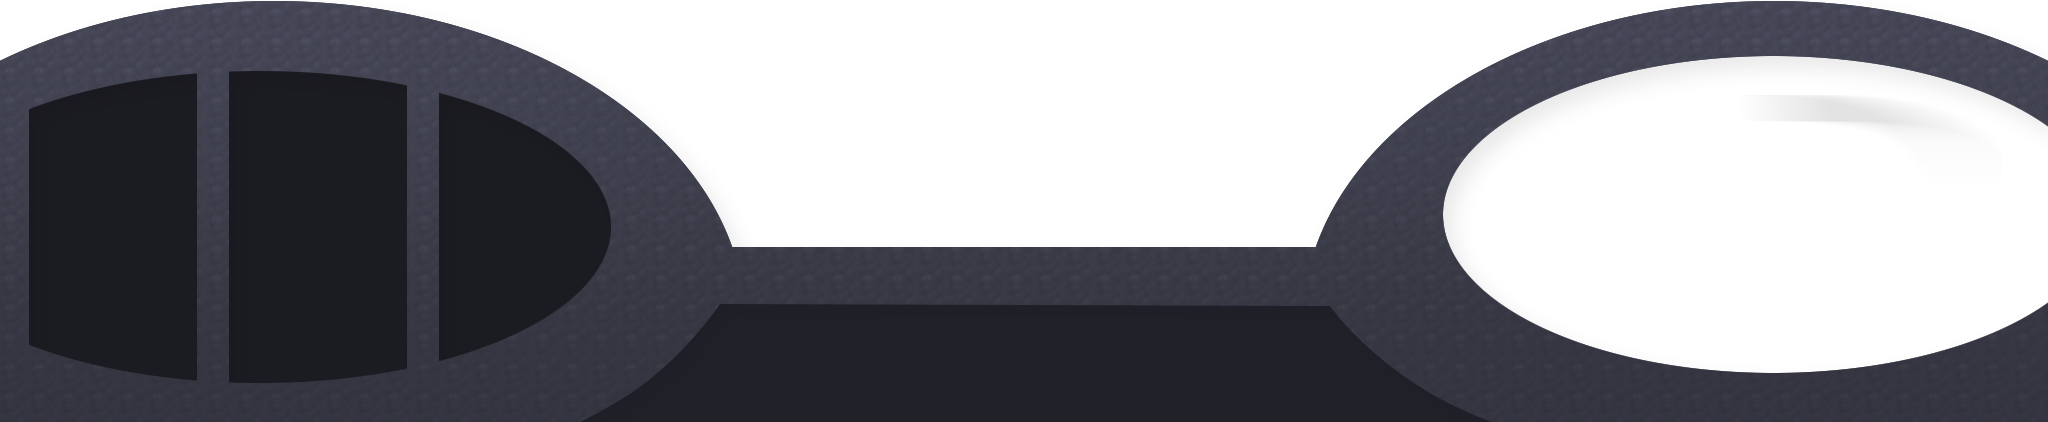
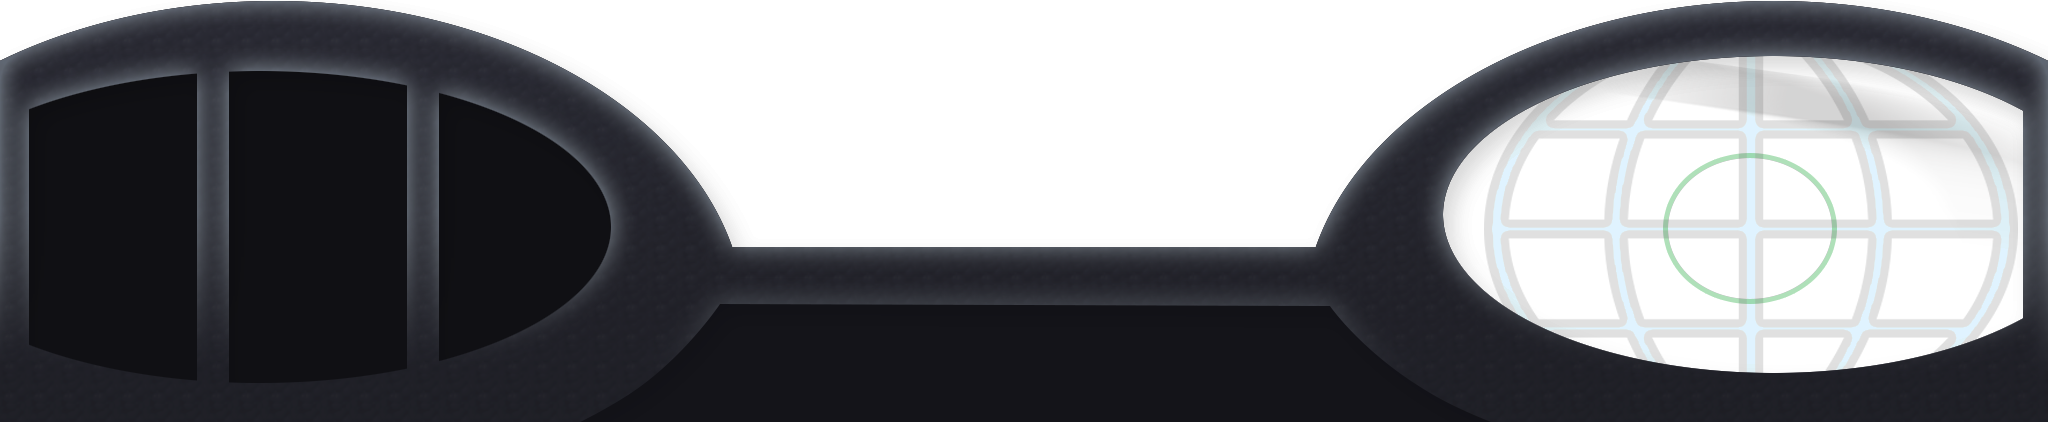
Improve dashboard and add stats

Changed region(s): [[0.0, 0.0, 1.0, 1.0]]

diff --git a/app/components/Mission/Mission.jsx b/app/components/Mission/Mission.jsx
@@ -14,6 +14,7 @@ import KeyboardActions from '../../services/KeyboardActions';
 import MissionService from '../../services/Mission';
 import Game from '../../services/Game';
 import gameUtils from '../../util/game';
+import numberUtils from '../../util/number';
 
 import playerShipData from '../../data/playerShip.json';
 import harrisonShipData from '../../data/harrisonShip.json';
@@ -214,7 +215,15 @@ export default class MissionComponent extends React.Component {
   getStats () {
     const stats = [];
 
-    stats.push({ label: 'Health', value: this.playerShip.health });
+    // stats.push({ label: 'Health', value: numberUtils.toPrecision( this.playerShip.health, 3 ) });
+    stats.push({ label: 'Health', value: numberUtils.toPrecision( this.playerShip.health, 3 ) });
+    stats.push({ label: 'UFOs', value: this.mission.actors.length });
+    stats.push({ label: 'Enemy shots', value: this.state.shots.length - this.playerShip.state.shots.length });
+    stats.push({ label: 'Friendly shots', value: this.playerShip.state.shots.length });
+    stats.push({ label: 'Speed', value: numberUtils.toPrecision( this.playerShip.state.speed, 1 ) });
+    stats.push({ label: 'Heading', value: numberUtils.toPrecision( this.playerShip.state.direction, 2 ) });
+    stats.push({ label: 'Longitude', value: numberUtils.toPrecision( this.playerShip.circle.y, 1 ) });
+    stats.push({ label: 'Latitude', value: numberUtils.toPrecision( this.playerShip.circle.x, 1 ) });
     stats.push({ label: 'F.P.S.', value: this.gameClock.fpsAverage });
 
 
@@ -412,7 +421,6 @@ export default class MissionComponent extends React.Component {
           playerShip={ this.state.playerShip }
           actors={ this.state.actors }
           shots={ this.state.shots }
-          stats={ this.state.stats }
           score={ this.state.score }
           map={ this.state.map }
           showGuides={ this.state.showGuides }
@@ -420,7 +428,9 @@ export default class MissionComponent extends React.Component {
           canvas={ this.state.canvas }
           onCanvasClicked={ this.onCanvasClicked }
         />
-        <DashboardComponent />
+        <DashboardComponent
+          stats={ this.state.stats }
+        />
         <Footer />
       </div>
     );

diff --git a/app/components/Game/Game.jsx b/app/components/Game/Game.jsx
@@ -22,7 +22,6 @@ export default class GameComponent extends React.Component {
     playerShip: React.PropTypes.object,
     actors: React.PropTypes.arrayOf(React.PropTypes.object),
     shots: React.PropTypes.arrayOf(React.PropTypes.object),
-    stats: React.PropTypes.arrayOf(React.PropTypes.object),
     score: React.PropTypes.object,
     showGuides: React.PropTypes.bool,
     showMap: React.PropTypes.bool,
@@ -101,9 +100,6 @@ export default class GameComponent extends React.Component {
 
     // Draw our player spaceship
     canvasUtils.drawThing( ctx, playerShip, getXPositionOffset( playerShip, playerShip ), getYPositionOffset( playerShip, playerShip ), showGuides );
-
-    // TODO: replace this with a simple div for performance
-    this.paintScore( ctx );
   }
 
   renderMapCanvas = ( ctx ) => {
@@ -123,13 +119,6 @@ export default class GameComponent extends React.Component {
     // ie,
     // 1st layer - dust clouds, junk etc - moving at same speed
     // 2nd layer - middle distance - moons, planets, stars etc - moving at 1/3 speed
-  }
-
-  paintScore ( ctx ) {
-    const { score, playerShip, shots } = this.props;
-    ctx.fillStyle = '#ffffff';
-    ctx.font = 'bold 26px sans-serif';
-    ctx.fillText( parseInt(playerShip.x) + ' by ' + parseInt(playerShip.y) + ' - px/s: ' + parseInt(playerShip.speed) + ' - SHOTS: ' + shots.length, 40, 43);
   }
 
   componentDidMount() {
@@ -167,14 +156,6 @@ export default class GameComponent extends React.Component {
     this.renderScene();
   }
 
-  renderStats() {
-    return this.props.stats.map( ( stat ) => {
-      return (
-        <tr key={ stat.label }><th>{ stat.label }</th><td>{ stat.value }</td></tr>
-      );
-    });
-  }
-
   getBackgroundPosition ( factor = 0.2 ) {
     const { playerShip } = this.props;
 
@@ -195,11 +176,6 @@ export default class GameComponent extends React.Component {
       <div className={ styles.Game }
         style={ inlineStyles }
       >
-        <table className={ styles.Stats }>
-          <tbody>
-            { this.renderStats() }
-          </tbody>
-        </table>
 
         <canvas ref="mapCanvas"
           className={ styles.CanvasMap }

diff --git a/app/components/Dashboard/Dashboard.jsx b/app/components/Dashboard/Dashboard.jsx
@@ -9,6 +9,14 @@ require('file?!../../assets/dash.png');
 
 export default class DashboardComponent extends React.Component {
 
+  static propTypes = {
+    stats: React.PropTypes.arrayOf(React.PropTypes.object)
+  }
+
+  static defaultProps = {
+    stats: []
+  }
+
   state = {
     radioState: {}
   }
@@ -29,10 +37,18 @@ export default class DashboardComponent extends React.Component {
     HeadRadio.unsubscribe( this.onRadioUpdate );
   }
 
+  renderStats() {
+    return this.props.stats.map( ( stat ) => {
+      return (
+        <tr key={ stat.label }><th>{ stat.label }</th><td>{ stat.value }</td></tr>
+      );
+    });
+  }
+
   render () {
 
     return (
-      <div className={ styles.Dashboard }
+      <div className={ styles.dashboard }
         style={
           {
             backgroundImage: 'url(../../assets/dash.png)'
@@ -40,6 +56,13 @@ export default class DashboardComponent extends React.Component {
         }
       >
         <RadioComponent data={ this.state.radioState } />
+
+        <table className={ styles.stats }>
+          <tbody>
+            { this.renderStats() }
+          </tbody>
+        </table>
+
         <SettingsComponent />
       </div>
     );

diff --git a/app/util/canvas.js b/app/util/canvas.js
@@ -40,13 +40,12 @@ const canvasUtils = {
     const shipColor = 'rgba( 250, 100, 100, 1)';
     const friendlyColor = 'rgba( 250, 200, 100, 1)';
 
-    canvasUtils.drawHoop( ctx, map.width * 0.5, map.height * 0.5, 30, '#ffffff' );
     canvasUtils.drawCircle( ctx, map.width * 0.5, map.height * 0.5, 2, '#ffffff' );
 
     (map.ships || []).forEach( ( ship ) => {
         const color = ship.isFriendly ? friendlyColor : shipColor;
         // canvasUtils.drawCircle( ctx, ship.x, ship.y, 2, color );
-        canvasUtils.drawRect( ctx, ship.x, ship.y, 3, color );
+        canvasUtils.drawRect( ctx, ship.x, ship.y, 4, color );
     });
   },
 

diff --git a/app/components/Dashboard/_Dashboard.scss b/app/components/Dashboard/_Dashboard.scss
@@ -1,10 +1,33 @@
 @import "toolkit";
 
-.Dashboard {
+.dashboard {
 	position: absolute;
 	left: 0; right: 0; bottom: 0;
 	height: 211px;
 	background-size: contain;
 	z-index: 5;
 	pointer-events: none;
+}
+
+
+.stats {
+	position: absolute;
+	bottom: 250px; left: 20px;
+	z-index: 5;
+	color: rgba(50, 255, 50, 1);
+	font-family: monospace;
+	font-size: 13px;
+	pointer-events: none;
+	opacity: 0.5;
+
+	th, td {
+		text-align: left;
+		padding: 3px 0;
+	    line-height: 25px;
+	}
+
+	th {
+		font-weight: bold;
+		padding-right: 10px;
+	}
 }

diff --git a/app/components/Game/_Game.scss b/app/components/Game/_Game.scss
@@ -5,23 +5,6 @@
 	background-size: cover;
 }
 
-.Stats {
-	position: absolute;
-	bottom: 20px; left: 20px;
-	z-index: 5;
-	color: white;
-	pointer-events: none;
-
-	th, td {
-		padding: 3px 5px;
-	}
-
-	th {
-		text-align: right;
-		font-weight: bold;
-	}
-}
-
 .CanvasMap {
 	position: absolute;
 	bottom: 2px; right: 2px;
